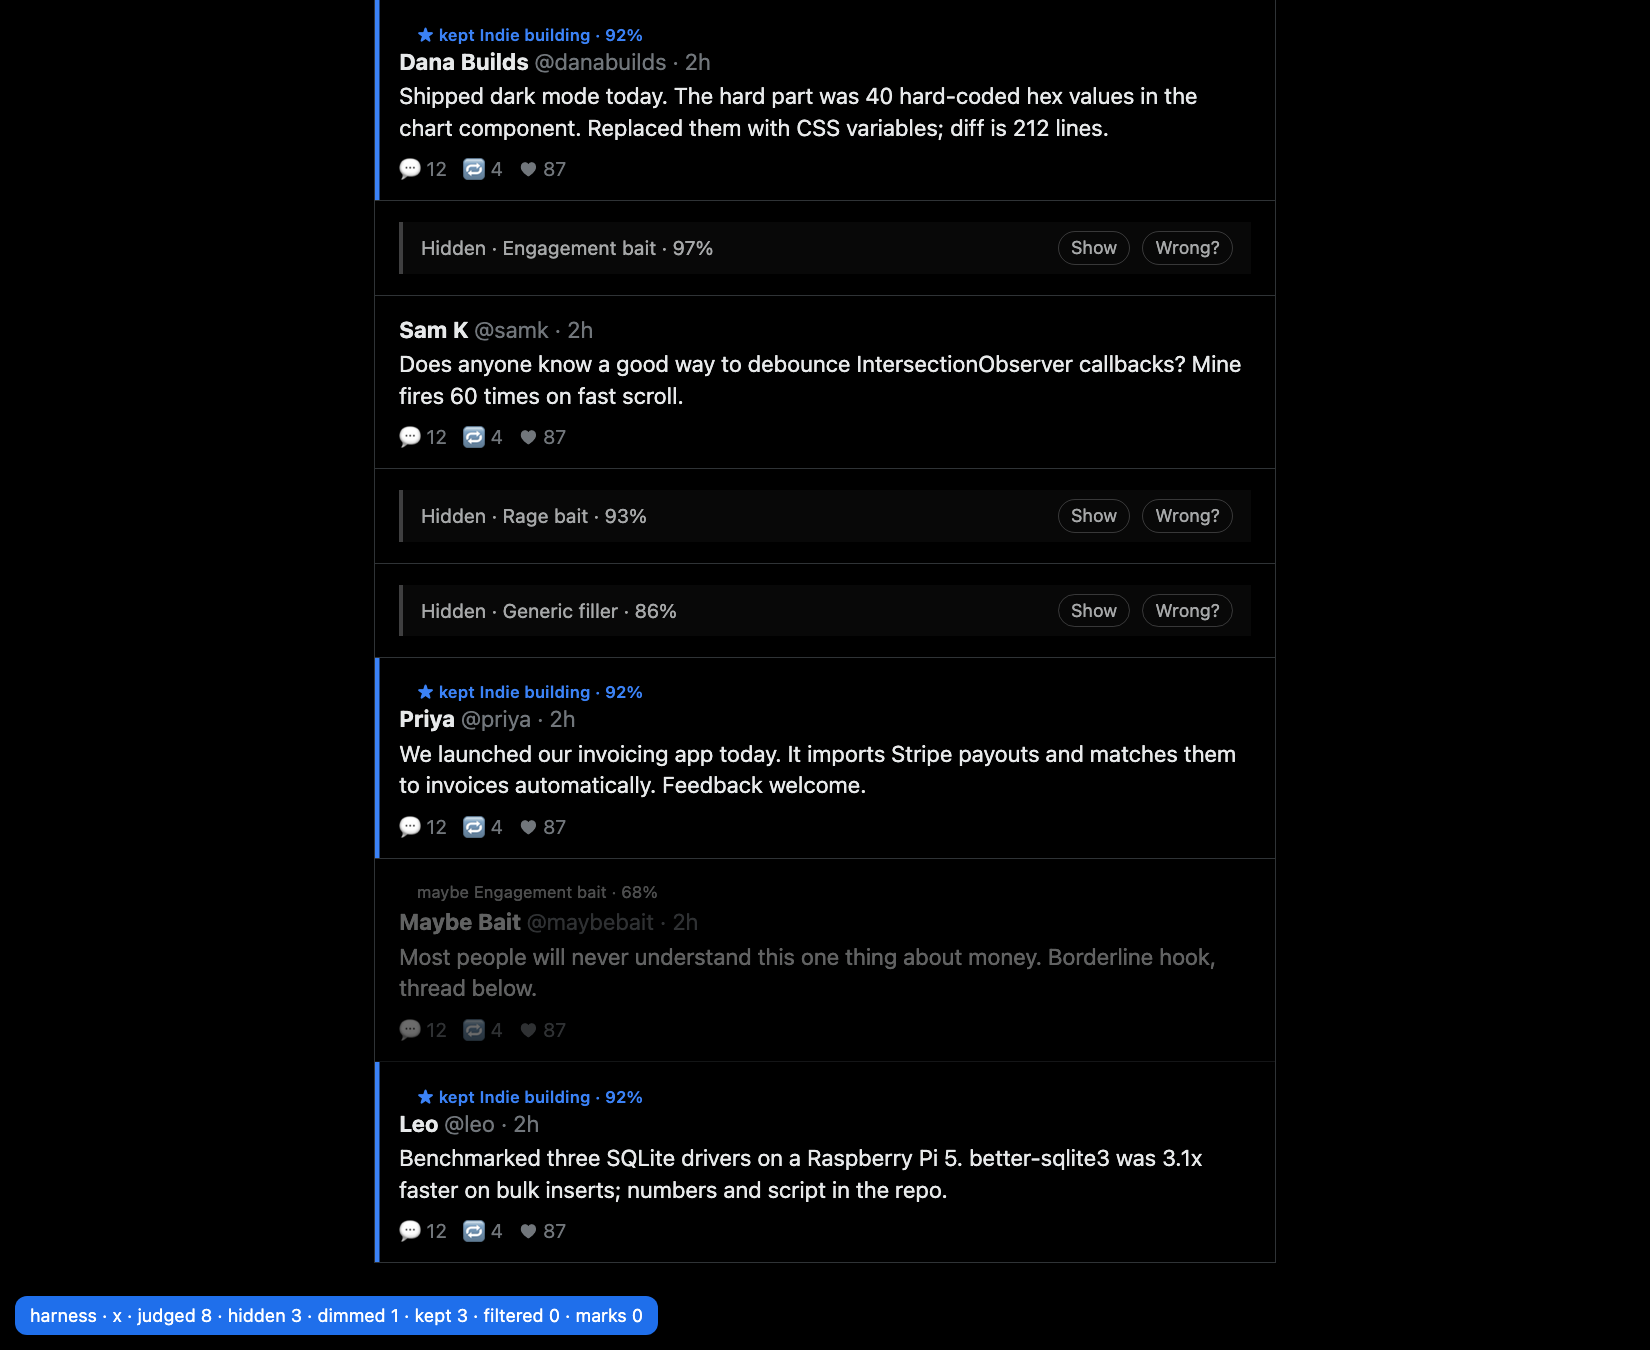
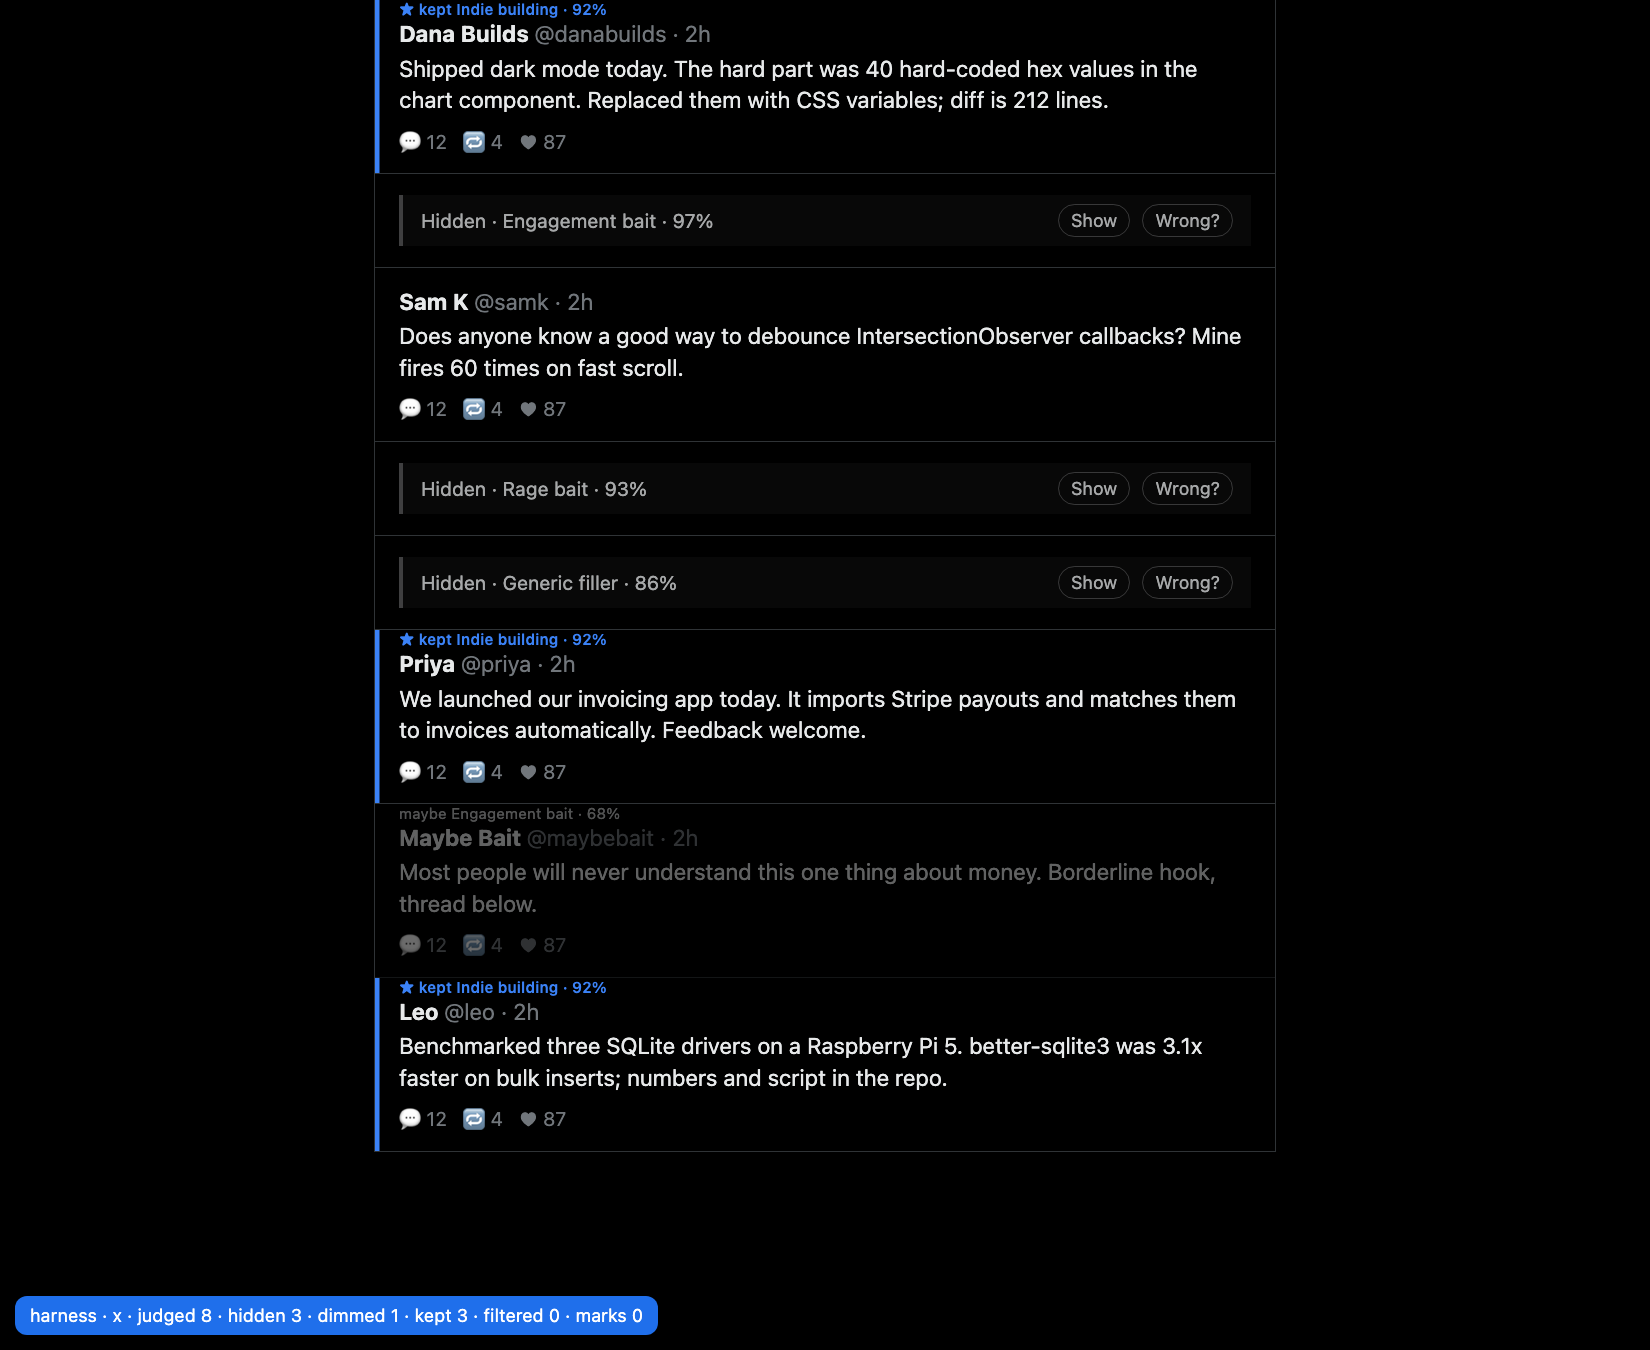
Keep notes out of the host's layout (v0.2.1)
Found on the live X feed: a post is a flex row there, and the "maybe ..."
or "kept ..." note was a full-width item inside that row. It squeezed the
post's content to almost nothing, so the post grew to 2,844 px of blank
space. The note now floats in the post's top padding and takes no part in
layout. Confirmed on the live page: the same post measured 668 px with the
new rule applied.

The test bench's fake posts are now flex rows too, so this class of bug
shows up there first.

diff --git a/src/content/style.css b/src/content/style.css
@@ -11,8 +11,7 @@ html[data-fw-peek] tr[data-fw-state="filtered"], html[data-fw-peek] tr[data-fw-f
 [data-fw-state="marked"] { box-shadow: inset 3px 0 0 #3b82f6; }
 [data-fw-state="marked"][data-fw-note]::before {
   content: attr(data-fw-note);
-  display: block; flex: 1 0 100%; width: 100%; box-sizing: border-box; padding: 3px 12px 0;
-  font: 600 11px/1.4 system-ui, sans-serif; color: #3b82f6;
+  font: 600 10px/12px system-ui, sans-serif; color: #3b82f6;
 }
 tr[data-fw-state="marked"][data-fw-note]::before { content: none; display: none; }
 tr[data-fw-state="marked"] > td:last-child { box-shadow: inset 3px 0 0 #3b82f6; }
@@ -43,8 +42,16 @@ tr[data-fw-state="marked"] > td:last-child { box-shadow: inset 3px 0 0 #3b82f6; 
 [data-fw-state="dim"]:hover { opacity: 1; }
 [data-fw-state="dim"][data-fw-note]::before {
   content: attr(data-fw-note);
-  display: block; flex: 1 0 100%; width: 100%; box-sizing: border-box; padding: 2px 12px;
-  font: 11px/1.4 system-ui, sans-serif; opacity: 0.8;
+  font: 10px/12px system-ui, sans-serif; opacity: 0.85;
+}
+
+/* The note must never take part in the host's layout. X lays a post out as a flex ROW, and a full-width note inside
+   that row squeezes the post's content to nothing (found on the live site). So the note floats in the post's top
+   padding instead, and the post's own size and flow are left exactly as the site made them. */
+[data-fw-state="dim"], [data-fw-state="marked"] { position: relative; }
+[data-fw-state="dim"][data-fw-note]::before, [data-fw-state="marked"][data-fw-note]::before {
+  position: absolute; top: 0; left: 16px; z-index: 1;
+  white-space: nowrap; pointer-events: none;
 }
 
 /* a generated block inside a table row becomes a stray cell and shifts the columns, so rows get a tooltip instead */

diff --git a/tests/harness/index.html b/tests/harness/index.html
@@ -10,7 +10,9 @@
     body { margin: 0; background: #000; color: #e7e9ea; font: 15px/1.4 system-ui, sans-serif; }
     body.hn { background: #f6f6ef; color: #000; font: 10pt Verdana, sans-serif; }
     .col { max-width: 600px; margin: 0 auto; border-left: 1px solid #2f3336; border-right: 1px solid #2f3336; }
-    article { border-bottom: 1px solid #2f3336; padding: 12px 16px; display: block; }
+    /* X lays a post out as a flex row with one child; keep that here, because layout bugs depend on it */
+    article { border-bottom: 1px solid #2f3336; padding: 12px 16px; display: flex; flex-direction: row; }
+    article > div { flex: 1 1 0; min-width: 0; }
     [data-testid="User-Name"] { font-weight: 700; margin-bottom: 2px; }
     [data-testid="User-Name"] span { color: #71767b; font-weight: 400; }
     .actions { color: #71767b; font-size: 13px; margin-top: 8px; }
